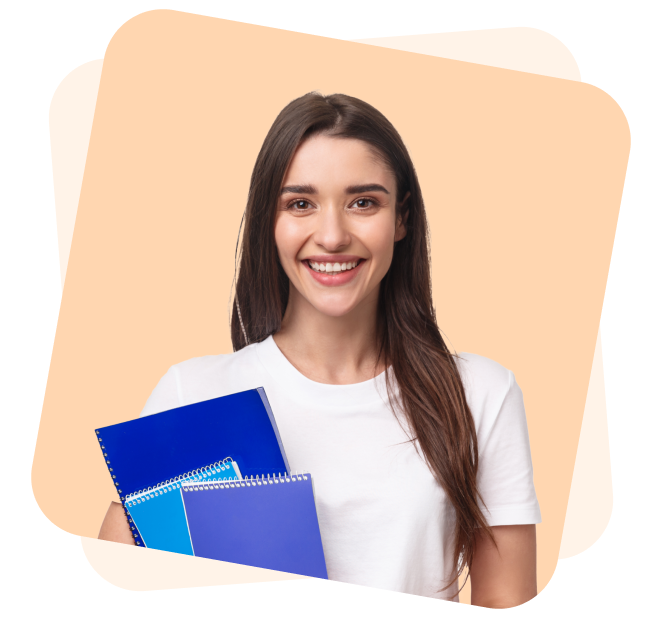
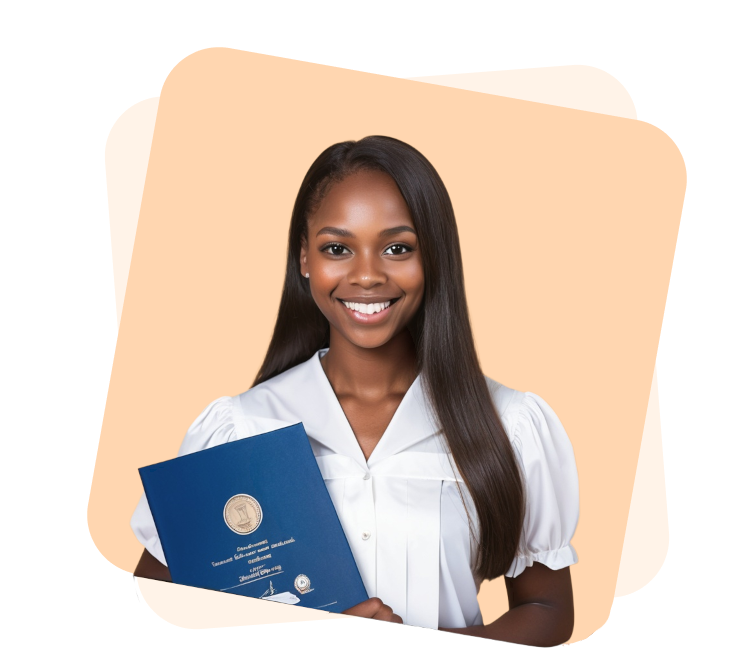
replaced hero-girl

diff --git a/src/components/LandingPageNavbar.jsx b/src/components/LandingPageNavbar.jsx
@@ -1,4 +1,3 @@
-import React from 'react';
 import { Link } from 'react-router';
 
 const LandingPageNavbar = () => {
@@ -20,9 +19,9 @@ const LandingPageNavbar = () => {
                 stroke="currentColor"
               >
                 <path
-                  stroke-linecap="round"
-                  stroke-linejoin="round"
-                  stroke-width="2"
+                  strokeLinecap="round"
+                  strokeLinejoin="round"
+                  strokeWidth="2"
                   d="M4 8h16M4 16h16"
                 ></path>
               </svg>
